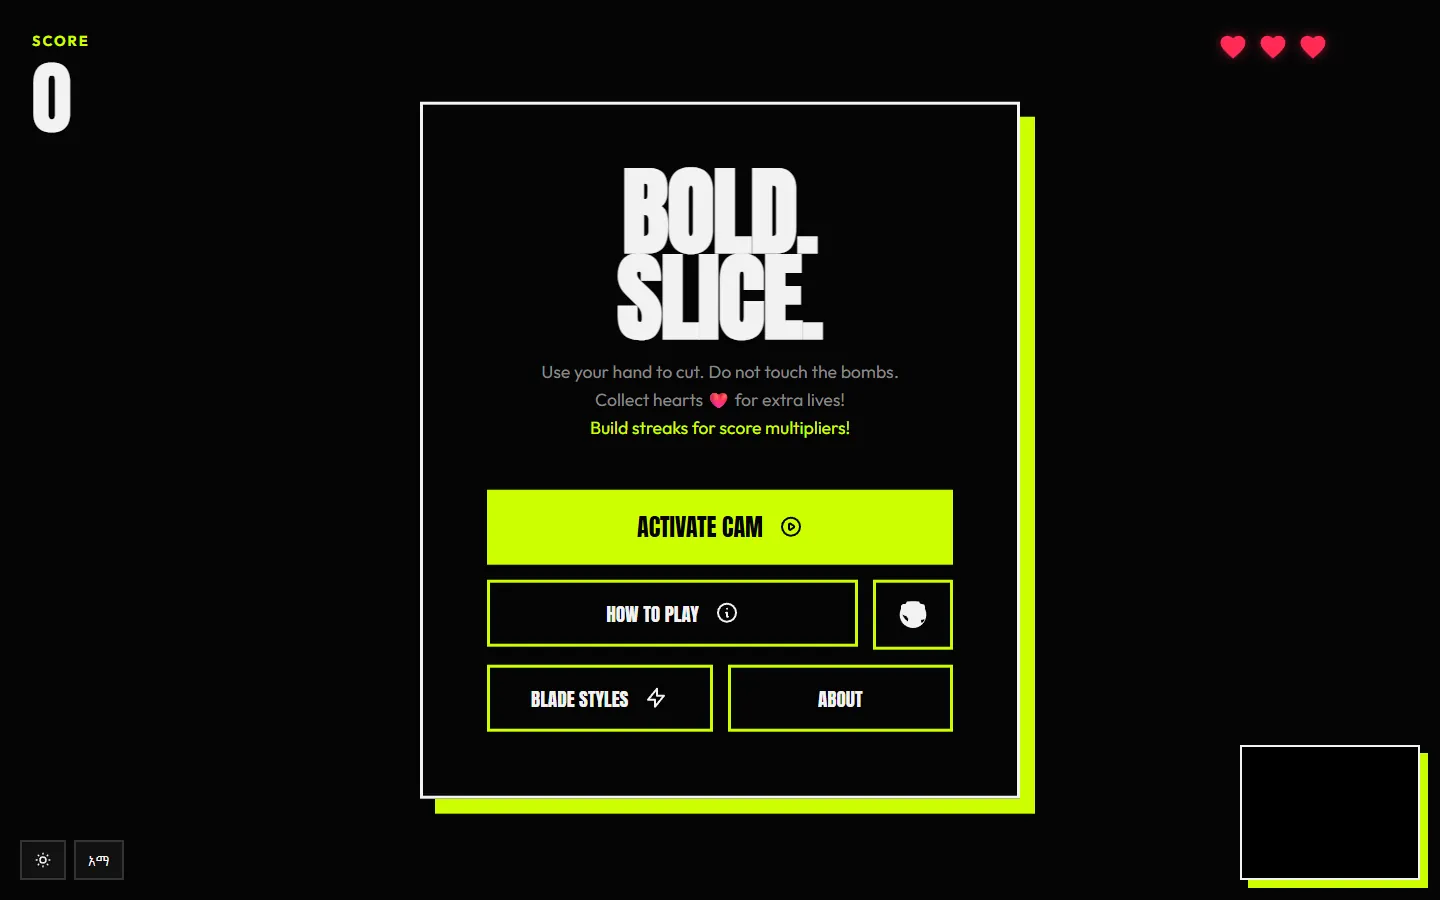
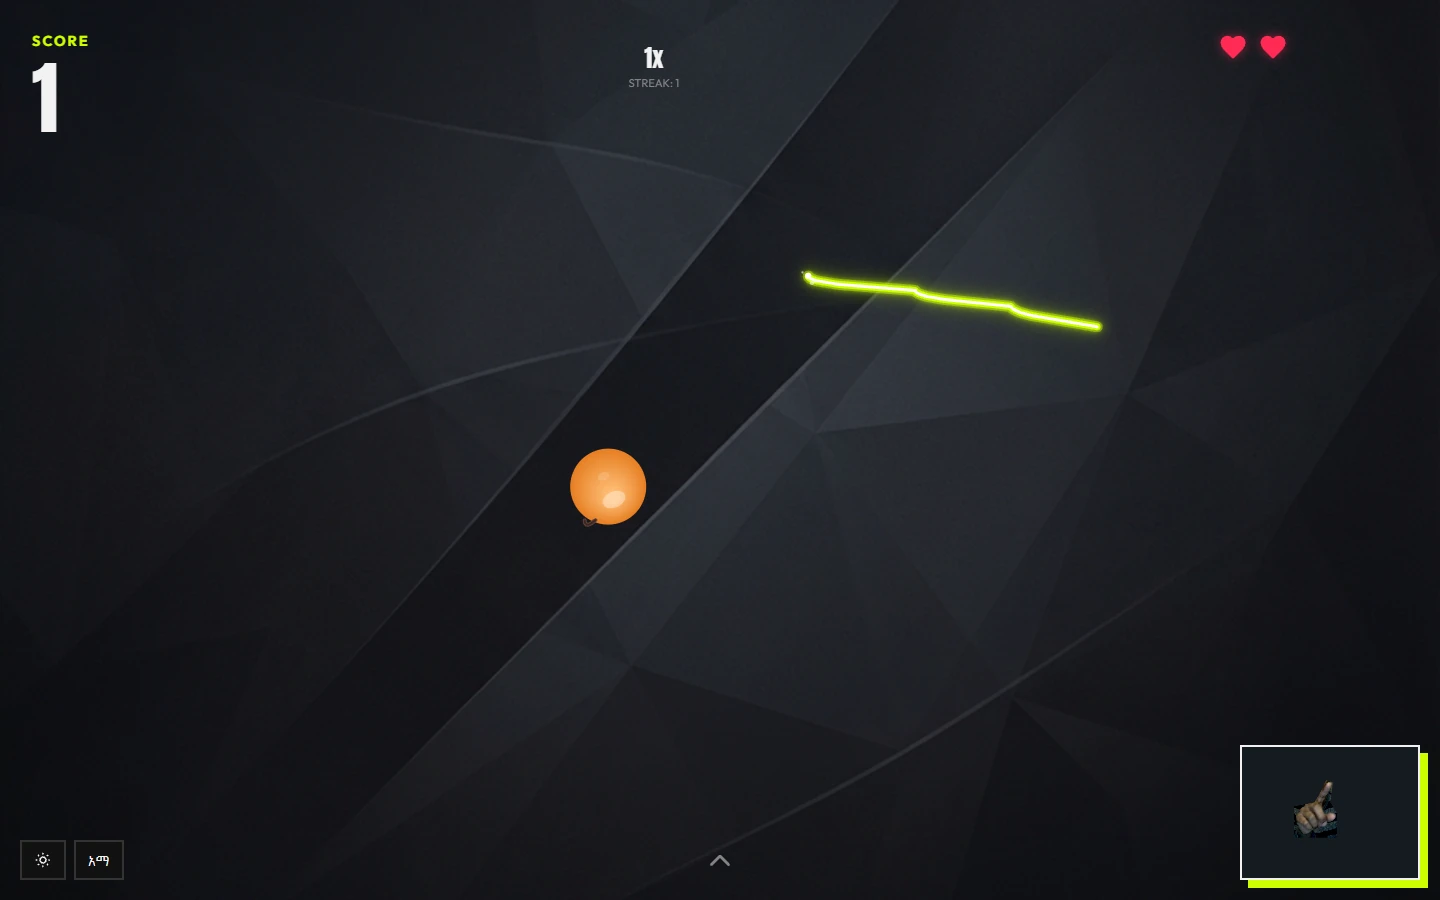
content: Kitefew shows the game in play, not its camera prompt [skip ci]
The preview was the camera-activation screen, so it showed the setup rather
than the interaction the project is about. The new capture is the live demo in
play: the tracked fingertip's blade trail, a fruit in flight, score and streak,
and the camera preview of the pointing hand. The camera was fed a recorded hand,
the game's own guide photo from its repository with everything above the fist
but the finger masked out, so no face appears. MediaPipe tracked it, and the game
scored it. The note says so: "Played by a recorded hand".

diff --git a/src/data/projects.ts b/src/data/projects.ts
@@ -95,6 +95,8 @@ const projectRecords: Project[] = [
     tech: "React, TypeScript, MediaPipe, Vite",
     image: "/projects/kitefew.webp",
     imageKind: "interface",
+    imageAlt: "Kitefew in play: the tracked fingertip's neon blade trail beside a flying orange, score 1 on a 1x streak, and the camera preview of the pointing hand",
+    imageNote: "Played by a recorded hand",
     githubUrl: "https://github.com/LeulTew/Kitefew",
     demoUrl: "https://kitefew.vercel.app/",
     categories: ["AI/DataScience", "Desktop & Games", "Web Development"],
